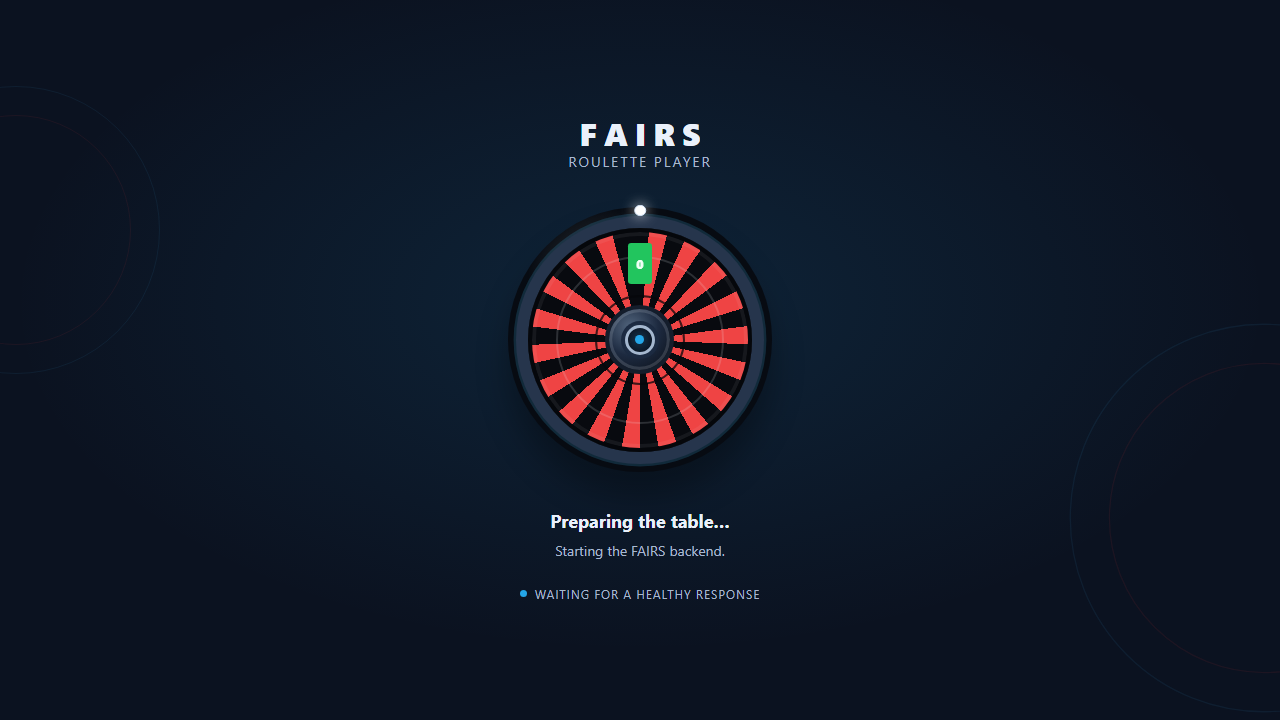
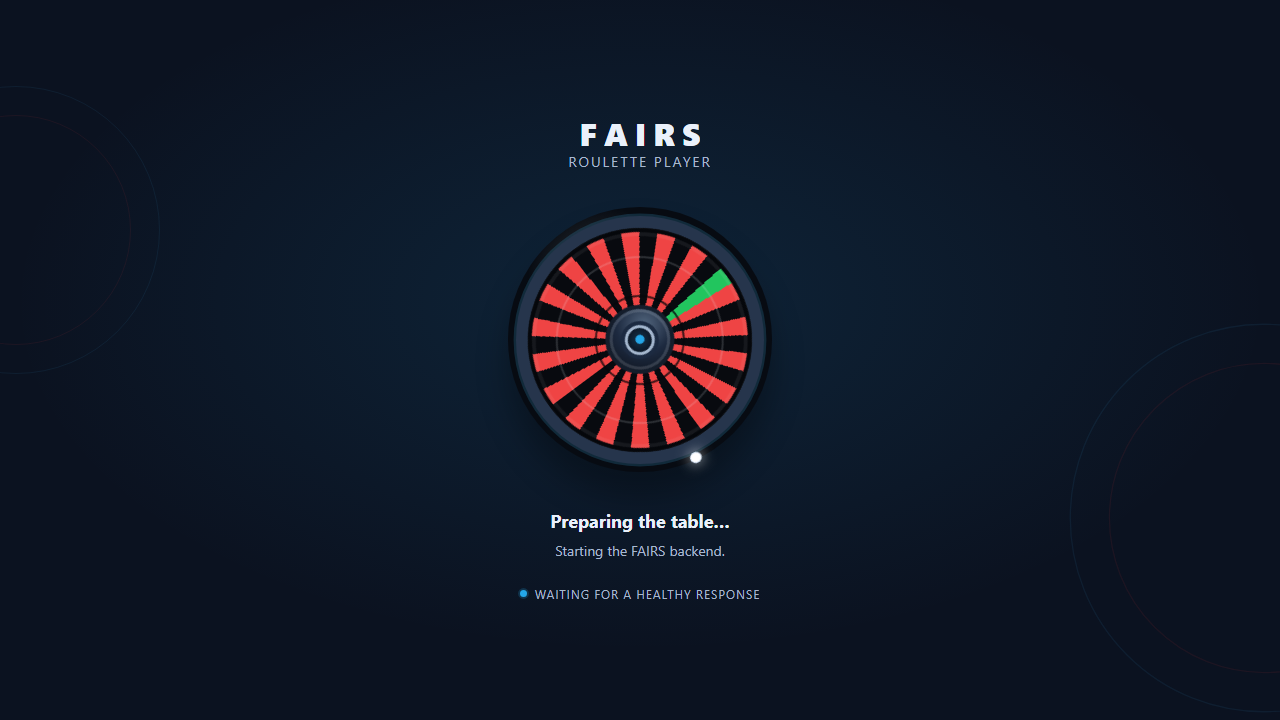
test: close Tier 0 validation and fix startup zero slice

Changed region(s): [[0.4062, 0.275, 0.5938, 0.6417]]

diff --git a/app/client/src/components/startup/StartupScreen.css b/app/client/src/components/startup/StartupScreen.css
@@ -167,11 +167,17 @@
     overflow: hidden;
     border: 0.25rem solid #05070b;
     border-radius: 50%;
-    background: repeating-conic-gradient(
-        from -5deg,
-        #080a0f 0deg 9.73deg,
-        var(--roulette-red) 9.73deg 19.46deg
-    );
+    background:
+        conic-gradient(
+            from -5deg,
+            var(--roulette-green) 0deg 9.73deg,
+            transparent 9.73deg 360deg
+        ),
+        repeating-conic-gradient(
+            from -5deg,
+            #080a0f 0deg 9.73deg,
+            var(--roulette-red) 9.73deg 19.46deg
+        );
     box-shadow: inset 0 0 0 0.25rem rgba(255, 255, 255, 0.06);
     animation: startup-wheel-spin 10s linear infinite;
 }
@@ -188,23 +194,6 @@
 .startup-wheel__rotor::after {
     inset: 29%;
     border-color: rgba(5, 7, 11, 0.75);
-}
-
-.startup-wheel__zero-pocket {
-    position: absolute;
-    top: 5%;
-    left: 50%;
-    z-index: 1;
-    display: grid;
-    width: 1.5rem;
-    height: 2.6rem;
-    place-items: center;
-    color: #f1fff6;
-    background: var(--roulette-green);
-    border-radius: 0.2rem;
-    font-size: var(--font-size-xs);
-    font-weight: 800;
-    transform: translateX(-50%);
 }
 
 .startup-wheel__inner-ring {

diff --git a/app/client/src/components/startup/RouletteWheel.tsx b/app/client/src/components/startup/RouletteWheel.tsx
@@ -11,8 +11,7 @@ const RouletteWheel: React.FC<RouletteWheelProps> = ({ paused = false }) => (
         aria-hidden="true"
     >
         <div className="startup-wheel__rim">
-            <div className="startup-wheel__rotor">
-                <span className="startup-wheel__zero-pocket">0</span>
+            <div className="startup-wheel__rotor" data-testid="startup-wheel-rotor">
                 <div className="startup-wheel__inner-ring" />
                 <div className="startup-wheel__hub">
                     <span className="startup-wheel__hub-mark" />

diff --git a/app/tests/e2e/test_app_flow.py b/app/tests/e2e/test_app_flow.py
@@ -60,6 +60,12 @@ class TestStartupFlow:
         expect(page.get_by_test_id("startup-screen")).to_be_visible()
         expect(page.get_by_text("Preparing the table…", exact=True)).to_be_visible()
         expect(page.get_by_test_id("startup-roulette-wheel")).to_be_visible()
+        zero_slice_background = page.get_by_test_id("startup-wheel-rotor").evaluate(
+            "element => getComputedStyle(element).backgroundImage"
+        )
+        assert "conic-gradient" in zero_slice_background
+        assert "rgb(34, 197, 94)" in zero_slice_background
+        assert page.locator(".startup-wheel__zero-pocket").count() == 0
         page.screenshot(
             path=str(
                 Path(__file__).resolve().parents[3]

diff --git a/assets/docs/project_status_ledger.md b/assets/docs/project_status_ledger.md
@@ -6,7 +6,7 @@ Last updated: 2026-09-21
 
 This document is the canonical catalog of the current operational state of FAIRS. It summarizes what is implemented, what has meaningful evidence, what is incomplete or blocked, and what must be revalidated. Detailed architecture, implementation, test, and remediation documents remain the evidence and design authorities for their own subjects.
 
-The snapshot was bootstrapped from the `v3.4.2` checkout at baseline commit `25e2537`. The authorized Development reinstall migrated the managed runtime to Python `3.14.7`, resolved PyTorch `2.10.0+cu130`, recreated the backend environment, installed Playwright browsers, rebuilt the frontend, and preserved the SQLite database. The current validation result is `199 passed, 9 skipped, 1 warning`; the detailed migration evidence is recorded in [`assets/QA/python314-migration-validation-20260921.md`](../QA/python314-migration-validation-20260921.md). No application capability is promoted to `VALIDATED` from source presence or test definitions alone.
+The snapshot was bootstrapped from the `v3.4.2` checkout at baseline commit `25e2537`. The authorized Development reinstall migrated the managed runtime to Python `3.14.7`, resolved PyTorch `2.10.0+cu130`, recreated the backend environment, installed Playwright browsers, rebuilt the frontend, and preserved the SQLite database. The current validation result is `199 passed, 9 skipped, 1 warning`; the detailed migration evidence is recorded in [`assets/QA/python314-migration-validation-20260921.md`](../QA/python314-migration-validation-20260921.md). Tier 0 campaign evidence is recorded in [`assets/QA/validation-campaign-tier0-20260921.md`](../QA/validation-campaign-tier0-20260921.md). No application capability is promoted to `VALIDATED` from source presence or test definitions alone.
 
 The nine pytest skips were explicit: five PostgreSQL cases without `TEST_POSTGRES_URL` and four checkpoint-backed inference cases without a usable fixture. The runner separately reported frontend unit and frontend E2E phases as `SKIPPED` because those npm scripts do not exist. The Python 3.14 launcher/browser/ML smoke is documented under `assets/QA/`; this ledger keeps the current result compact and links to the runner, test sources, and the smoke note.
 
@@ -35,6 +35,7 @@ Future coding agents must:
 | `BROKEN` | Known not to work correctly. |
 | `BLOCKED` | Cannot currently be validated or completed because an external dependency, service, credential, hardware constraint, or similar blocker is unavailable. |
 | `UNVALIDATED` | Implementation exists, but current evidence is insufficient to claim that it works. |
+| `UNKNOWN` | The capability is present or intended, but available evidence is too limited to establish a meaningful partial result. |
 | `NOT_IMPLEMENTED` | The expected capability is absent from this checkout. |
 | `DEPRECATED` | Retained only for compatibility or scheduled for removal. |
 
@@ -46,7 +47,7 @@ Future coding agents must:
 | --- | --- |
 | `VALIDATED` | `docs.ontology`, `application.startup`, `backend.api-contracts`, `backend.training`, `persistence.sqlite`, `runtime.settings`, `qa.standard-runner` |
 | `WORKING` | `runtime.source-release` |
-| `PARTIAL` | `backend.inference`, `frontend.workflows` |
+| `PARTIAL` | `backend.inference`, `frontend.workflows`, `validation.campaign` |
 | `BROKEN` | None evidenced in the current checkout. |
 | `BLOCKED` | `persistence.postgresql` |
 | `UNVALIDATED` | None current; remaining uncertainty is recorded as `PARTIAL`, `BLOCKED`, or validation debt. |
@@ -68,10 +69,41 @@ Future coding agents must:
 | `runtime.settings` | `VALIDATED` | Typed `.env` configuration, `runtime-settings.json`, strict updates/reset, JIT capability checks, and live propagation. | Python 3.14.7 settings unit/API tests passed for structured persistence, partial update, reload/reset, supported JIT, and Windows `inductor` rejection; direct `torch.compile` execution also passed. | None evidenced for the supported Python 3.14 contract. | — | 2026-09-21 | `unit + E2E` | [`configuration.md`](runtime/configuration.md), [`test_settings_system.py`](../../app/tests/unit/test_settings_system.py), [`test_settings_api.py`](../../app/tests/e2e/test_settings_api.py) | Re-run settings tests after configuration, capability, or propagation changes. |
 | `frontend.workflows` | `PARTIAL` | React/Vite shell, training and inference pages, guidance, settings UI, transport parsing, and desktop-width behavior. | Python 3.14 browser suite covered navigation, page rendering, guidance, settings/JIT persistence, upload/API flows, startup recovery/retry/reload, supported viewport containment, and reduced motion; frontend lint, production build, launcher smoke, and manual waiting-animation inspection passed. | Four live inference-session tests skipped without a checkpoint/data fixture; `ISSUE-003` remains for absent standalone frontend unit/E2E npm scripts; the broader live inference UI still needs a fixture-backed review. | — | 2026-09-21 | `manual + E2E` | [`experience.md`](ui/experience.md), [`components_and_patterns.md`](ui/components_and_patterns.md), [`app_flow.py`](../../app/tests/e2e/test_app_flow.py), [`app/client/README.md`](../../app/client/README.md) | Revalidate the live inference UI and broader visual/accessibility paths after UI changes. |
 | `qa.standard-runner` | `VALIDATED` | Repository-standard dependency setup, live services, Python tests, and optional frontend test phases. | `app/tests/run_tests.bat` completed with `Live server phase: PASS`, `Python tests: PASS`, `Frontend bootstrap: PASS`, `Frontend unit tests: SKIPPED`, and `Frontend E2E tests: SKIPPED`; the Python 3.14 run reported `199 passed, 9 skipped, 1 warning in 103.94s`, with frontend lint and production build also passing. | The skipped phases and tests are explicit validation debt, not hidden passes; the warning is a dependency deprecation warning. The canonical pytest cache requires an elevated token on this host because of its existing ACL. | — | 2026-09-21 | `unit + E2E` | [`testing_and_quality.md`](coding/testing_and_quality.md), [`startup.md`](runtime/startup.md), [`run_tests.bat`](../../app/tests/run_tests.bat), [`../QA/python314-migration-validation-20260921.md`](../QA/python314-migration-validation-20260921.md) | Use the supported runner and its canonical cache; investigate any new skip, failure, or warning. |
+| `validation.campaign` | `PARTIAL` | Tiered validation of the core Windows + SQLite + CPU product profile, with conditional PostgreSQL, GPU, mixed-precision, JIT, maintenance, and resilience gates. | The campaign map and execution contract are tracked below. VAL-00 and VAL-01 are validated with real dataset/checkpoint and launcher/browser evidence; the first-tier startup animation regression is also covered by the focused E2E and refreshed screenshots. | Live checkpoint-backed inference, replay mutation, broader visual/accessibility coverage, device-dependent execution, and repeated-operation evidence remain open. | — | 2026-09-21 | `manual + E2E` | [`testing_and_quality.md`](coding/testing_and_quality.md), [`startup.md`](runtime/startup.md), [`workflows.md`](operations/workflows.md), [`findings_and_remediation.md`](architecture/findings_and_remediation.md), [`../QA/validation-campaign-tier0-20260921.md`](../QA/validation-campaign-tier0-20260921.md) | Continue VAL-02 and the fixture-backed inference campaign. |
 | `qa.frontend-test-scripts` | `NOT_IMPLEMENTED` | Standalone `test:unit` and `test:e2e` npm scripts for the frontend package. | `app/client/package.json` defines `dev`, `build`, `lint`, and `preview` only; the frontend README and standard runner document the skipped test phases. | Frontend validation relies on backend-hosted Playwright flows, lint, and build rather than an isolated frontend test command. | — | 2026-09-20 | `manual` | [`app/client/README.md`](../../app/client/README.md), [`run_tests.bat`](../../app/tests/run_tests.bat), [`testing_and_quality.md`](coding/testing_and_quality.md) | Decide whether a meaningful standalone frontend test layer is required; if added, wire it into the runner and ledger. |
 | `distribution.packaged-artifacts` | `NOT_IMPLEMENTED` | Container, installer, Tauri, MSI, portable executable, and other packaged distribution paths. | Runtime mode and deployment documents explicitly state that the supported boundary is source plus the Windows launcher. | Packaged artifacts are outside the current product scope; do not treat their absence as a broken local web runtime. | — | 2026-09-20 | `manual` | [`modes.md`](runtime/modes.md), [`deployment.md`](runtime/deployment.md) | No action unless product scope changes. |
 
 No external model-provider, authentication, distributed-worker, or cloud-service component is invented in this ledger: the current architecture documents a local layered monolith with process-local training and inference state.
+
+## Comprehensive validation campaign
+
+The user-supplied comprehensive roadmap is digested here as the canonical campaign map; it does not create a second tracker. The current source baseline for this campaign is the `develop` checkout at `f61507d846bcea5c3349c35041252ff5b4d539de` before this documentation change. A slice status is promoted only from scenarios actually executed at a recorded revision.
+
+The core certification profile is Windows, managed Python `3.14.7`, SQLite, CPU execution, one backend worker, and the supported desktop boundary. The functional dependency order is:
+
+`startup → persistence/settings → datasets → training → checkpoint → inference`
+
+Every slice follows `Inspect → Execute → Observe → Diagnose → Fix → Retest → Regress → Record`. Browser slices record visible state, console errors, failed requests, backend errors, and failure screenshots; persistence/model slices additionally record database state, checkpoint/dataset/session/job identifiers, and the tested revision. Detailed screenshots and logs belong under the `assets/QA/` tree; this ledger keeps the textual conclusion portable.
+
+### Ordered slice register
+
+| Tier | Slice IDs | Focus | Baseline state | Next action |
+| --- | --- | --- | --- | --- |
+| 0 — Environment and startup | `VAL-00`, `VAL-01` | Exact runtime/database baseline, deterministic real checkpoint lineage, frontend-first health polling, retry, and owned-process shutdown. | `VAL-00` and `VAL-01` are `VALIDATED`; the backend-wait wheel's zero sector is full green and covered by visual/browser regression evidence. | Tier 0 is closed; continue with Tier 1. |
+| 1 — Foundations | `VAL-02`–`VAL-06` | Routing/layout, HTTP/generated contracts, runtime settings, SQLite persistence, and dataset import/lifecycle. | Mixed: contracts/settings/SQLite are validated; layout and valid-XLSX coverage are partial. | Run after Tier 0, prioritizing valid XLSX and below-minimum desktop behavior. |
+| 2 — Core training | `VAL-07`–`VAL-10` | Wizard validation, short real training/checkpoint publication, cancellation/concurrency, resume/provenance handoff. | Training backend is validated; wizard/checkpoint UI evidence is partial. | Use the VAL-00 lineage and dependency-local regression. |
+| 3 — Inference | `VAL-11`–`VAL-15` | Real session start, observation/bet loop, replay mutations, recovery/restart, and betting strategies. | Highest-priority open area; live fixture-backed scenarios remain partial or unvalidated. | Start with `VAL-11` using dataset `5` and checkpoint `val00_lineage_20260921`. |
+| 4 — Cross-cutting and advanced | `VAL-16`–`VAL-20` | Guidance/accessibility, complete desktop visual pass, PostgreSQL, device/JIT/mixed precision, and maintenance utilities. | Existing guidance/JIT/CI evidence is selective; PostgreSQL and hardware gates require exact current evidence. | Re-run only when dependencies change or after core slices. |
+| 5 — Resilience and boundaries | `VAL-21`, `VAL-22` | Malformed-input recovery, repetition, bounded performance, and state-leak detection. | Validation debt. | Execute after the core workflow is stable. |
+
+The recommended order is `VAL-00 → VAL-01 → VAL-02 → VAL-04 → VAL-06 → VAL-07 → VAL-08 → VAL-10 → VAL-11 → VAL-12 → VAL-13 → VAL-14 → VAL-15 → VAL-16 → VAL-17 → VAL-19 → VAL-21 → VAL-22`. `VAL-03`, `VAL-05`, `VAL-09`, `VAL-18`, and `VAL-20` are conditional or low-cost gates whose evidence must still be rechecked when their dependencies change. Packaged distribution remains outside scope.
+
+### Tier 0 slice ledger
+
+| Slice ID | Capability | Existence | Status | Scenarios executed | Issues found | Classification | Root cause / fixes | Regression result | Evidence / remaining gap | Last validated / revision / environment |
+| --- | --- | --- | --- | --- | --- | --- | --- | --- | --- | --- |
+| `VAL-00` | Campaign baseline and deterministic training-to-checkpoint lineage | Confirmed in launcher, API, SQLite, training, and checkpoint implementations. | `VALIDATED` | Revision/runtime/database baseline; official launcher health; 120-row disposable CSV upload; real CPU training; completed checkpoint; metadata, DB state, and logs. | None. | — | No fix required. | Health, dataset summary, checkpoint listing, and Alembic-head checks passed after the run. | Dataset ID `5`; job ID `fae03fc4`; checkpoint `val00_lineage_20260921`; the CSV fixture is tracked. Live inference is intentionally not part of this slice. | 2026-09-21 / `f61507d` / Windows, Python `3.14.7`, SQLite, CPU. |
+| `VAL-01` | Frontend-first startup, health polling/retry, owned shutdown, and startup visual state | Confirmed in launcher, `useBackendStartup`, startup components, and existing E2E coverage. | `VALIDATED` | Official launcher option 1; frontend ready on `8051`; in-app browser reached `/training`; `Connected` rendered; no startup screen after health; zero rendered as a full green conic sector rather than a card; 5 focused startup E2E tests; official elevated option 13 stopped nine owned processes and ports were rechecked. | None. | — | Replaced the positioned zero-pocket card with a green 9.73-degree rotor sector; no launcher remediation was required after the permission-safe rerun. | `TestStartupFlow`: `5 passed`, `7 deselected`; client build passed; startup screenshots show the full green sector; no browser console errors; ports `8890` and `8051` clear. | Tier 0 startup and shutdown evidence is complete. | 2026-09-21 / working tree rooted at `f61507d` / Windows, ports `8890`/`8051`. |
 
 ## Open issues
 
@@ -91,6 +123,7 @@ Validation debt is separate from known defects. It records uncertainty that shou
 | Component | Current Confidence | Missing Validation | Priority |
 | --- | --- | --- | --- |
 | `backend.inference` | Medium | A live checkpoint-backed prediction session, bet update, row/context clear, persistence, and shutdown flow. | High |
+| `validation.campaign` | Medium | Complete the ordered VAL-02–VAL-22 register and keep exact revision/evidence records for every slice. | High |
 | `persistence.postgresql` | Low | Service-backed conformance with `TEST_POSTGRES_URL`, including concurrency and cleanup. | Medium |
 | `runtime.settings` | Medium | Revalidate PyTorch/`torch.compile` compatibility when the Python or locked ML runtime changes again. | Low |
 | `frontend.workflows` | Medium | Live inference interaction plus manual visual/accessibility checks for training, inference, settings, guidance, keyboard behavior, and the documented desktop-width boundary. | High |
@@ -107,6 +140,8 @@ These entries provide provenance without making obsolete findings look active.
 | `HIST-002` — legacy cache and launcher compatibility paths | Removed from current ownership; `runtimes/cache` and current launcher paths are the supported model. | [`startup.md`](runtime/startup.md), [`windows_automation.md`](coding/windows_automation.md), [`findings_and_remediation.md`](architecture/findings_and_remediation.md) | Recheck cache and process cleanup after launcher changes. |
 | `HIST-003` — checkpoint comparison UI and related workflow | Retired before `v3.4.2`; current training workflow documentation no longer presents it as a supported feature. | [`workflows.md`](operations/workflows.md), [`experience.md`](ui/experience.md) | Treat requests to restore it as new scope, not as a broken current capability. |
 | `HIST-004` — missing managed runtime after application uninstall | Resolved during this bootstrap by the authorized Development reinstall; the subsequent standard runner completed with `201 passed, 10 skipped`. | [`startup.md`](runtime/startup.md), [`run_tests.bat`](../../app/tests/run_tests.bat) | If the environment is removed again, record it as setup state and restore it before judging product behavior. |
+| `HIST-005` — non-elevated launcher stop permission boundary | Resolved as an environment permission boundary; the official elevated option 13 path listed and stopped nine owned application processes, then ports `8890` and `8051` were verified clear. | [`../QA/validation-campaign-tier0-20260921.md`](../QA/validation-campaign-tier0-20260921.md), [`startup.md`](runtime/startup.md), [`start_on_windows.ps1`](../../start_on_windows.ps1) | Preserve exact process identity and permission context when revalidating launcher cleanup. |
+| `HIST-006` — backend-wait zero rendered as a rectangular green card | Resolved by rendering zero as a full green rotor sector; the focused startup E2E asserts the conic-gradient color and absence of the legacy pocket element, and refreshed screenshots provide visual evidence. | [`RouletteWheel.tsx`](../../app/client/src/components/startup/RouletteWheel.tsx), [`StartupScreen.css`](../../app/client/src/components/startup/StartupScreen.css), [`test_app_flow.py`](../../app/tests/e2e/test_app_flow.py), [`../QA/validation-campaign-tier0-20260921.md`](../QA/validation-campaign-tier0-20260921.md) | Re-run startup visual/browser checks after future wheel or startup-style changes. |
 
 ## Revalidation triggers
 

diff --git a/assets/QA/validation-campaign-tier0-20260921.md b/assets/QA/validation-campaign-tier0-20260921.md
@@ -1,0 +1,110 @@
+# Validation campaign Tier 0 evidence
+
+Date: 2026-09-21
+Branch: `develop`
+Source revision under test: working tree rooted at `f61507d846bcea5c3349c35041252ff5b4d539de`
+Profile: Windows, managed Python `3.14.7`, SQLite, CPU, one backend worker
+Configured ports: backend `8890`, frontend `8051`
+
+## Result summary
+
+| Slice | Result | Stable issue | Notes |
+| --- | --- | --- | --- |
+| `VAL-00` | `VALIDATED` | — | Real dataset upload, CPU training, checkpoint publication, metadata, database, and log evidence agree. |
+| `VAL-01` | `VALIDATED` | — | Startup/browser, the corrected full-green zero sector, focused E2E checks, and the supported elevated launcher option 13 cleanup path all passed. |
+
+## VAL-00 — deterministic real lineage
+
+Pre-run state was SQLite Alembic head `0002_rename_relative_preference`, with no inference sessions and no checkpoint directories. Existing datasets were preserved. The fixture [`val00_training_lineage.csv`](val00_training_lineage.csv) contains 120 valid roulette outcomes and is now tracked with the QA evidence.
+
+The official launcher option 1 started the application. The rendered Training route reached `Connected`, and the backend log recorded successful health and application requests. The fixture was uploaded through the real API:
+
+```text
+POST /api/data/upload?dataset_kind=training&csv_separator=%2C
+200
+filename=val00_training_lineage.csv
+rows_imported=120
+dataset_id=5
+dataset_name=val00_training_lineage
+```
+
+A real CPU training job was then started against dataset `5` with one episode, 100 maximum steps, perceptive field `8`, batch/replay/memory size `100`, and checkpoint name `val00_lineage_20260921`:
+
+```text
+POST /api/training/start
+202
+job_id=fae03fc4
+status=started
+
+GET /api/training/jobs/fae03fc4
+status=completed
+progress=100.0
+final_loss=4.52057409286499
+final_rmse=2.126164197921753
+checkpoint_path=app/resources/checkpoints/val00_lineage_20260921
+```
+
+Checkpoint and persistence checks after completion:
+
+```text
+GET /api/training/checkpoints
+["val00_lineage_20260921"]
+
+GET /api/training/checkpoints/val00_lineage_20260921/metadata
+dataset_id=5
+episodes=1
+perceptive_field_size=8
+final_loss=4.52057409286499
+final_rmse=2.126164197921753
+
+SQLite dataset_id=5: 120 outcomes
+SQLite inference_sessions: 0
+SQLite alembic_version: 0002_rename_relative_preference
+```
+
+The backend log recorded `Started training run fae03fc4` and `Training run fae03fc4 completed successfully`, with no error-level entry observed in the application log for this run. This closes the deterministic lineage prerequisite; live inference is intentionally the next slice (`VAL-11`), not part of VAL-00.
+
+## VAL-01 — startup and shutdown smoke
+
+The official launcher option 1 reported `[OK] FAIRS frontend is ready`, started the backend and frontend on the configured ports, and reported the expected URLs. Automatic browser handoff was denied by the desktop boundary, so the in-app browser opened the frontend directly at `/training`.
+
+Rendered/browser evidence:
+
+- page title: `FAIRS Roulette Player`;
+- URL: `http://127.0.0.1:8051/training`;
+- startup screen absent after health became ready;
+- visible `Connected` state and Training navigation;
+- the backend-wait wheel renders zero as a full green sector in the rotor, with no rectangular zero-pocket element;
+- in-app browser console errors/warnings: none;
+- the focused startup suite passed all five selected tests.
+
+Focused command and result:
+
+```text
+app/server/.venv/Scripts/python.exe -m pytest app/tests/e2e/test_app_flow.py -k TestStartupFlow -v
+5 passed, 7 deselected in 25.81s
+```
+
+The first non-elevated launcher menu option 13 returned `Accesso negato`. A permission-safe rerun through the official elevated launcher then completed its own confirmation/listing path, found nine FAIRS-owned application and child processes, stopped all nine, and confirmed:
+
+```text
+launcher option 13: [OK] Stopped 9 FAIRS application process(es).
+remainingOwnedWrappers=0
+remainingPorts=0
+```
+
+The earlier `ISSUE-004` (`test/environment problem`) is closed as an environment permission boundary; no launcher remediation was required.
+
+The focused viewport screenshots were refreshed by this run and are the visual regression evidence for the full green zero sector.
+
+## Tracked evidence
+
+- [`val00_training_lineage.csv`](val00_training_lineage.csv) — deterministic 120-row training fixture.
+- [`fairs_startup_loading_1100x800.png`](fairs_startup_loading_1100x800.png) — focused startup viewport evidence.
+- [`fairs_startup_loading_1440x900.png`](fairs_startup_loading_1440x900.png) — focused startup viewport evidence.
+- [`python314-migration-validation-20260921.md`](python314-migration-validation-20260921.md) — runtime and standard-runner baseline.
+- [`startup-launch-smoke-20260920.md`](startup-launch-smoke-20260920.md) — prior launcher/browser smoke context.
+
+## Tier 0 handoff
+
+Tier 0 is closed. Continue with `VAL-02` and use dataset `5` plus checkpoint `val00_lineage_20260921` for `VAL-11`.

diff --git a/assets/docs/coding/testing_and_quality.md b/assets/docs/coding/testing_and_quality.md
@@ -1,6 +1,6 @@
 ## Testing And Quality
 
-Last updated: 2026-09-11
+Last updated: 2026-09-21
 
 ## Quality Baseline
 
@@ -50,6 +50,27 @@ Primary automated test surfaces live under `app/tests`:
 - Use broader checks when shared infrastructure or startup flow changes.
 - Keep QA artifacts in `assets/QA/` when persistent evidence is needed.
 - Do not leave temporary logs, screenshots, or validation scraps scattered through the repository.
+
+## Comprehensive Validation Campaign
+
+The canonical campaign tracker is [`../project_status_ledger.md`](../project_status_ledger.md). The campaign targets the core Windows + SQLite + CPU profile first, then treats PostgreSQL, CUDA, mixed precision, JIT, maintenance, and resilience as explicit conditional gates. Its dependency order is:
+
+`startup → persistence/settings → datasets → training → checkpoint → inference`
+
+Use the roadmap slice IDs `VAL-00` through `VAL-22` in the ledger. The normal execution order is `VAL-00 → VAL-01 → VAL-02 → VAL-04 → VAL-06 → VAL-07 → VAL-08 → VAL-10 → VAL-11 → VAL-12 → VAL-13 → VAL-14 → VAL-15 → VAL-16 → VAL-17 → VAL-19 → VAL-21 → VAL-22`; run `VAL-03`, `VAL-05`, `VAL-09`, `VAL-18`, and `VAL-20` when their dependencies or evidence change.
+
+For every slice use:
+
+`Inspect → Execute → Observe → Diagnose → Fix → Retest → Regress → Record`
+
+Record only scenarios actually executed, the exact source revision, environment, stable issue IDs, classification, root cause, remediation, adjacent regression, evidence paths, and remaining gaps. Browser evidence includes the visible state, console errors, failed network requests, backend errors, and screenshots for failures. Persistence/model evidence also includes database state and dataset, checkpoint, session, or job identifiers. Store detailed QA artifacts under `assets/QA/`; keep the conclusion and limitation in the tracked ledger.
+
+The first active tier is Tier 0:
+
+- `VAL-00` creates or identifies one disposable training dataset and produces a real short CPU checkpoint through the supported application path. This lineage is the prerequisite for live inference validation; mocked checkpoints do not satisfy the campaign.
+- `VAL-01` smoke-tests the official Windows launcher, frontend-before-backend loading, `/api/health` transition, route entry, explicit owned-process shutdown, and port cleanup. It does not certify Training or Inference behavior after route mount.
+
+Use repository-local cache/temp paths and preserve unrelated data or processes. Do not infer a pass from source presence, a test definition, an HTTP 200 alone, or a hosted result from a different revision.
 
 ## Related Files
 

diff --git a/assets/docs/architecture/findings_and_remediation.md b/assets/docs/architecture/findings_and_remediation.md
@@ -1,6 +1,6 @@
 ## Architecture Findings And Remediation
 
-Last updated: 2026-09-10
+Last updated: 2026-09-21
 
 ## Audit Objective
 
@@ -143,6 +143,12 @@ Additional coverage verifies:
 - generated frontend contract parity;
 - SQLite and PostgreSQL persistence conformance;
 - frontend lint/type/build validation.
+
+## Validation Priorities
+
+The architecture has one local owner per responsibility, but ownership correctness does not by itself prove the end-to-end product path. The current validation campaign therefore follows the dependency chain `startup → persistence/settings → datasets → training → checkpoint → inference` and keeps the highest-risk boundary explicit: a real serialized checkpoint must load against its recorded dataset and produce a persisted initial inference prediction.
+
+The campaign is tracked by `VAL-00` through `VAL-22` in [`../project_status_ledger.md`](../project_status_ledger.md). `VAL-00` establishes a disposable real lineage; `VAL-01` refreshes launcher/startup evidence; `VAL-11` begins the live checkpoint-backed inference campaign. Inference replay/replacement remains a separate state-transition risk, while PostgreSQL, CUDA, mixed precision, and unsupported JIT behavior remain environment-specific gates. A passing unit suite or HTTP health response does not close those boundaries.
 
 ## Final Architecture
 

diff --git a/assets/docs/runtime/startup.md b/assets/docs/runtime/startup.md
@@ -1,6 +1,6 @@
 ## Startup
 
-Last updated: 2026-09-20
+Last updated: 2026-09-21
 
 ## Local Application Startup
 
@@ -96,6 +96,15 @@ From PowerShell:
 ```powershell
 cmd /c app\tests\run_tests.bat
 ```
+
+## Validation Campaign Baseline
+
+The first campaign tier is recorded in the project status ledger as `VAL-00` and `VAL-01`.
+
+- `VAL-00` records the exact revision, managed runtime, SQLite mode, health response, clean training/inference state, disposable dataset, short real CPU training job, and completed checkpoint identifiers. The checkpoint must be produced through the supported API/launcher path so later inference slices exercise real serialization and dataset lineage.
+- `VAL-01` uses the official launcher to verify that the frontend is reachable while backend lifespan startup is still pending, that the browser transitions only after `/api/health` is healthy, and that explicit launcher stop removes only repository-owned backend/frontend processes and leaves ports `8890` and `8051` clear.
+
+When capturing evidence, record browser-visible state, console/network failures, backend logs, process identity, and screenshots for failures. Do not treat a source inspection, a test definition, or a successful response from an unrelated revision as current startup evidence.
 
 ## Related Files
 

diff --git a/assets/docs/operations/workflows.md b/assets/docs/operations/workflows.md
@@ -1,6 +1,6 @@
 ## Workflows
 
-Last updated: 2026-09-19
+Last updated: 2026-09-21
 
 ## Training Workflow
 
@@ -33,6 +33,8 @@ Resume uses the same train/validation environment construction as initial traini
 3. FAIRS verifies that the dataset recorded by the checkpoint is still available and supports the checkpoint perceptive field.
 4. If the original dataset is valid, FAIRS opens Inference with the checkpoint, dataset, initial capital, and bet context preselected.
 5. If the dataset is missing or incompatible, FAIRS does not silently substitute another dataset. Open Inference and choose the alternative dataset explicitly so the changed experimental context is visible.
+
+For the validation campaign, create this lineage with one disposable named training dataset and a short real CPU training run before testing live inference. Record the dataset ID, training job ID, checkpoint name, database state, and source revision; a mocked or manually copied checkpoint does not establish the required training-to-inference evidence.
 
 ## Inference Workflow
 
